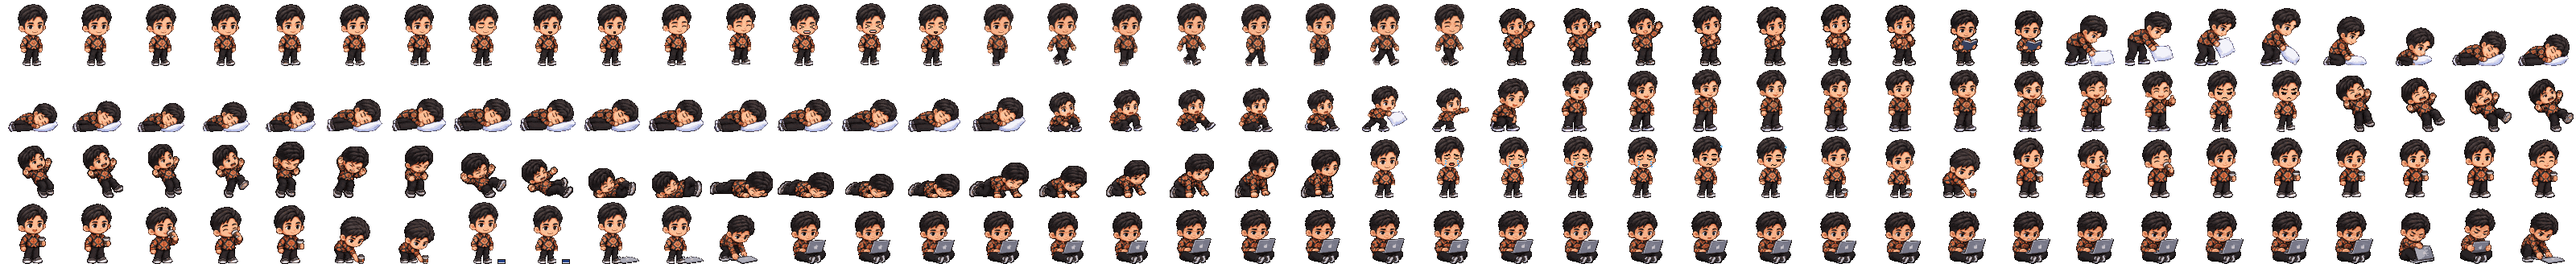
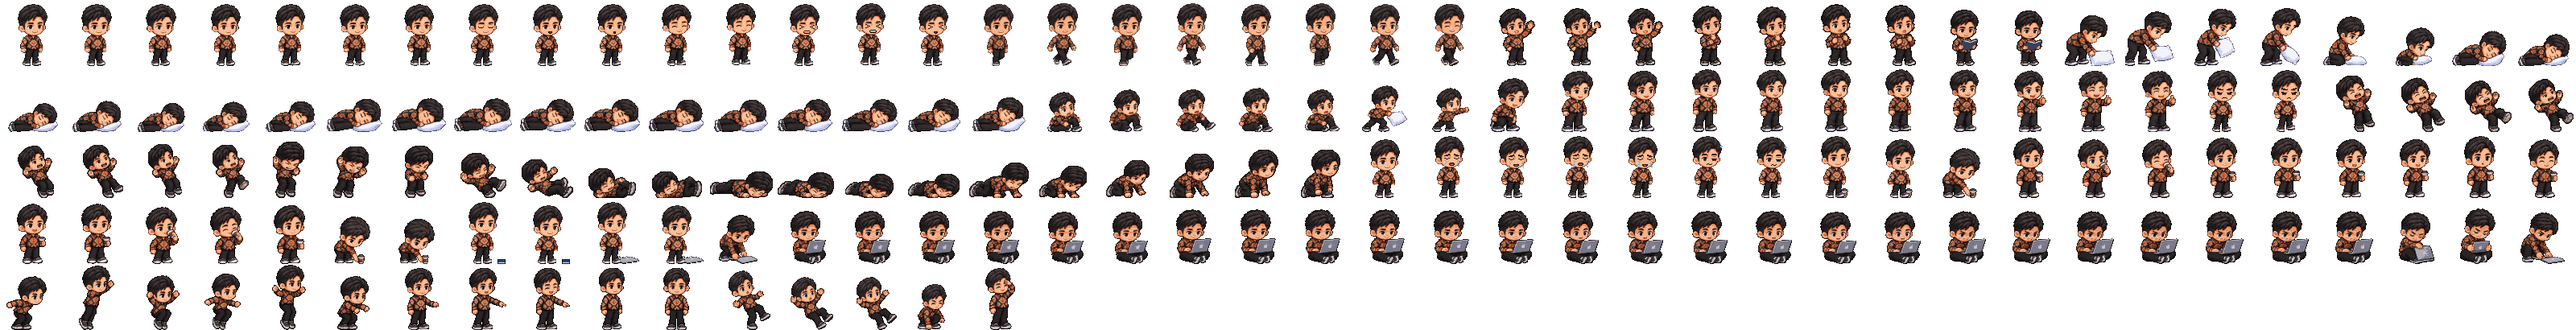
Tambah animasi lompat, menunjuk, berbalik, dan jatuh kaget pada companion
- Lompat ke jalan hero (6 frame) dan jatuh kaget saat jalan hilang (5 frame)
- Menunjuk saat bagian Quests dan Skill Tree terlihat
- Berbalik arah dengan mulus saat arah jalan berganti
- Frame baru dibuat dengan GPT, diproses lewat pipeline sprite
- Cache-busting companion ke v=6

diff --git a/assets/js/companion.js b/assets/js/companion.js
@@ -5,9 +5,13 @@
    Perilaku:
    - aktivitas acak: jalan (menoleh sesuai arah), diam & bernapas, berpikir, bingung, peregangan,
      minum kopi, membaca, duduk, ngoding, melambai
+   - section Quests / Skill Tree terlihat -> menunjuk ke arah konten sambil berkomentar
    - klik  -> tertawa kegelian (klik terus -> marah)
    - seret -> diangkat: marah & meronta; lepas -> jatuh, pusing, lalu menangis
-   - tidak ada aktivitas 35 detik -> tidur berbaring; ada aktivitas -> bangun kaget & bingung */
+   - tidak ada aktivitas 35 detik -> tidur berbaring; ada aktivitas -> bangun kaget & bingung
+   - ganti arah jalan -> berbalik (3/4 -> depan -> 3/4 dicerminkan), tidak langsung dicerminkan
+   - jalan hero muncul lagi saat scroll -> ancang-ancang & melompat ke jalan;
+     jalan hilang -> terpeleset kaget, melayang, mendarat jongkok, lalu lega */
 (() => {
   const root = document.getElementById('buddy');
   const DATA = window.ARSYA_FRAMES;
@@ -81,6 +85,7 @@
     surprised: { anim: 'surprised', fps: 1, dur: [700, 800], mark: '❗' },
     think:     { anim: 'think', fps: 1.2, dur: [4000, 6000], mark: '💡' },
     confused:  { anim: 'confused', fps: 3, dur: [2500, 3200], mark: '❓' },
+    point:     { anim: 'point', fps: 2.5, dur: [3000, 3400], intro: ['point_in'], introFps: 4, outro: true },
     coffee:    { anim: 'coffee', fps: 4, dur: [6000, 9000], intro: ['coffee_in'], introFps: 4, outro: ['coffee_out'],
                  cue: { frame: 6, say: 'coffeeTalk', ms: 3000 } },   // frame 6 = mulai mengobrol
     read:      { anim: 'read', fps: 0.8, dur: [6000, 9000], intro: ['read_in'], introFps: 3, outro: true },
@@ -115,6 +120,8 @@
   let S = 2, W = FW * S, H = FH * S;
   let x = 24, y = 0, floorY = 0;
   let onRoad, dropping = false;                                       // lantai: jalan di gambar hero atau dasar layar
+  let crouchUntil = 0, landUntil = 0, launchAt = 0, landAt = 0;      // ancang-ancang / mendarat (frame lompat)
+  let slipping = false;                                               // jatuh kaget dari jalan (frame slip)
 
   /* lantai = jalan pada latar hero (window.ARSYA_FLOOR dari main.js, posisi telapak kaki di viewport)
      selama jalan itu terlihat; selain itu dasar layar */
@@ -143,6 +150,7 @@
 
   /* ---------- pemutar animasi ---------- */
   let list = ANIMS.idle, animFps = 1, frameI = 0, frameT = 0, loop = true, override = null, overrideI = 0;
+  let pose = null;                                 // frame lompat / berbalik yang menimpa animasi state
   const seq = (names, reverse) => {
     const l = [].concat(...names.map((n) => ANIMS[n]));
     return reverse ? l.reverse() : l;
@@ -153,7 +161,9 @@
   }
   function render() {
     let f;
-    if (override) {
+    if (pose != null) {
+      f = pose;
+    } else if (override) {
       const o = ANIMS[override];
       f = o[overrideI % o.length];
     } else {
@@ -161,6 +171,46 @@
     }
     sprite.style.backgroundPosition = `${-(f % COLS) * W}px ${-Math.floor(f / COLS) * H}px`;
   }
+  function setPose(f) {
+    if (f === pose) return;
+    pose = f; render();
+  }
+  /* frame lompat (jump: 1 ancang-ancang, 2 menolak, 3 naik, 4 puncak, 5 turun, 6 mendarat) dari kecepatan vertikal */
+  const JUMP = ANIMS.jump, SLIP = ANIMS.slip;
+  /* jatuh kaget: slip = [kehilangan pijakan, melayang, melayang, mendarat jongkok, lega] */
+  function airPose(now) {
+    const t = now - launchAt;
+    if (slipping) return t < 150 ? SLIP[0] : SLIP[1 + (Math.floor(t / 110) % 2)];
+    return t < 110 ? JUMP[1] : vy < -300 ? JUMP[2] : vy < 250 ? JUMP[3] : JUMP[4];
+  }
+  function stopJump() {
+    dropping = slipping = false; crouchUntil = landUntil = 0; vy = 0;
+    setPose(null);
+  }
+
+  /* berbalik arah: turn = [3/4 menghadap kanan, depan]; sisi kiri memakai frame 3/4 yang dicerminkan */
+  const TURN = ANIMS.turn, TURN_STEP = 85;
+  let faceLeft = false, turnSteps = null, turnAt = 0;
+  const showFace = (left) => root.classList.toggle('face-left', left);
+  function face(left, animate = true) {
+    if (left === faceLeft && (animate || !turnSteps)) return;
+    faceLeft = left;
+    if (!animate || turnSteps || pose != null || dropping || crouchUntil || landUntil || root.hidden) {
+      if (turnSteps) { turnSteps = null; setPose(null); }
+      showFace(left);
+      return;
+    }
+    turnSteps = [[TURN[0], !left], [TURN[1], false], [TURN[0], left]];
+    turnAt = performance.now();
+    stepTurn(turnAt);
+  }
+  function stepTurn(now) {
+    const i = Math.floor((now - turnAt) / TURN_STEP);
+    if (i >= turnSteps.length) { turnSteps = null; setPose(null); showFace(faceLeft); return; }
+    showFace(turnSteps[i][1]);
+    setPose(turnSteps[i][0]);
+  }
+
   /* tampilkan frame lain sebentar (kedip / bicara) tanpa mengganggu animasi utama */
   let overrideTimer = null;
   function flash(name, ms) {
@@ -196,7 +246,7 @@
     state = s;
     const dur = ms != null ? ms : (cfg.dur ? rand(cfg.dur[0], cfg.dur[1]) : 0);
     root.classList.remove('sleeping');
-    if (s !== 'walk') root.classList.remove('face-left');
+    if (s !== 'walk') face(false, !['drag', 'fall', 'land', 'hurt', 'getup', 'cry', 'sleep'].includes(s));
     override = null;
     setMark(null);
     stateEnd = 0;
@@ -301,29 +351,45 @@
     const surf = surface();
     if (state === 'drag' || state === 'fall') {
       floorY = surf.y;
+    } else if (crouchUntil) {                         // ancang-ancang, lalu menolak ke jalan
+      if (now >= crouchUntil) {
+        crouchUntil = 0; dropping = true; launchAt = now;
+        floorY = surf.y;
+        vy = floorY < y ? -Math.sqrt(2 * 2600 * (y - floorY + 40)) : 0;   // puncak 40px di atas jalan
+      }
     } else if (dropping) {
       floorY = surf.y;
       vy += 2600 * dt;
       y += vy * dt;
-      if (vy > 0 && y >= floorY) {
-        y = floorY; vy = 0; dropping = false;
-        root.classList.remove('land'); void root.offsetWidth; root.classList.add('land');
+      setPose(airPose(now));
+      if (vy > 0 && y >= floorY) {                    // mendarat jongkok sebentar (jatuh kaget: lalu lega)
+        y = floorY; vy = 0; dropping = false; landAt = now;
+        landUntil = now + (slipping ? 1000 : 180);
+        setPose(slipping ? SLIP[3] : JUMP[5]);
       }
       place();
     } else if (onRoad !== undefined && surf.road !== onRoad && !root.hidden) {
-      dropping = true;
       floorY = surf.y;
-      vy = floorY < y ? -Math.sqrt(2 * 2600 * (y - floorY + 24)) : 0;   // naik: lompat ke jalan; turun: jatuh
+      face(faceLeft, false);                          // batalkan berbalik yang sedang berjalan
+      if (floorY < y) {                               // naik: ancang-ancang dulu
+        crouchUntil = now + 150; landUntil = 0; slipping = false;
+        setPose(JUMP[0]);
+      } else {                                        // turun: kehilangan pijakan, jatuh
+        dropping = slipping = true; vy = 0; launchAt = now; landUntil = 0;
+      }
     } else if (y !== surf.y) {
       floorY = y = surf.y;
       place();
     }
     onRoad = surf.road;
+    if (landUntil && now >= landUntil) { landUntil = 0; slipping = false; setPose(null); }
+    else if (landUntil && slipping && now - landAt > 280) setPose(SLIP[4]);
+    if (turnSteps) stepTurn(now);
 
-    if (state === 'walk') {
+    if (state === 'walk' && !crouchUntil && !landUntil) {
       const dir = Math.sign(targetX - x);
-      x += dir * WALK_SPEED * S * dt;                // sama dengan panjang langkah: kaki tidak meluncur
-      root.classList.toggle('face-left', dir < 0);   // frame jalan menghadap kanan, dicerminkan ke kiri
+      if (dir) face(dir < 0);                        // frame jalan menghadap kanan, dicerminkan ke kiri
+      if (!turnSteps) x += dir * WALK_SPEED * S * dt;   // sama dengan panjang langkah: kaki tidak meluncur
       if (dir === 0 || (dir > 0 && x >= targetX) || (dir < 0 && x <= targetX)) {
         x = targetX; setState('idle', rand(1200, 3000));
       }
@@ -373,6 +439,7 @@
     if (!press.moved && Math.hypot(e.clientX - press.sx, e.clientY - press.sy) > 6) {
       press.moved = true;
       root.classList.add('dragging');
+      stopJump();
       setState('drag'); say('lift', 2200);
     }
     if (press.moved) {
@@ -430,7 +497,9 @@
         const id = en.target.id;
         if (!en.isIntersecting || seen.has(id) || !['idle', 'walk', 'think'].includes(state)) return;
         seen.add(id);
-        setState(id === 'skills' ? 'coding' : id === 'quests' ? 'think' : 'wave');
+        setState(id === 'party' ? 'wave' : 'point');
+        // frame menunjuk menghadap kanan: di separuh kanan layar dicerminkan agar menunjuk ke konten
+        if (id !== 'party') face(x + W / 2 > window.innerWidth / 2);
         say(SECTION_LINE[id]);
       });
     }, { threshold: 0.35 });

diff --git a/assets/js/companion-frames.js b/assets/js/companion-frames.js
@@ -1,2 +1,2 @@
 /* DIBUAT OTOMATIS oleh tools/sprite/build_sheet.py - jangan diedit manual */
-window.ARSYA_FRAMES = {"frameWidth": 80, "frameHeight": 82, "cols": 40, "rows": 4, "count": 160, "anims": {"idle": [0, 1, 2, 3, 4, 5, 6], "blink": [7], "talk": [0, 8, 9], "happy": [10, 11], "tickle": [12, 13, 14, 13], "walk": [15, 16, 17, 18, 19, 20, 21, 22], "wave": [23, 24, 23, 25], "think": [26, 27], "surprised": [28, 29], "read": [30, 31], "lie_down": [32, 33, 34, 35, 36, 37, 38], "sleep": [39, 40, 41, 42, 43, 44, 45, 46, 47, 48, 49, 50, 51, 52, 53, 54, 55], "wake_up": [56, 57, 58, 59, 60, 61, 62, 63, 64, 65, 66, 67, 68, 69, 70, 71, 72, 73], "angry": [74, 75], "lift": [76, 77, 78, 79, 80, 81, 82, 83], "fall": [84, 85, 86, 87, 88], "land": [89, 90], "hurt": [91, 92, 93, 94], "getup": [95, 96, 97, 98, 99, 100, 101, 0], "cry": [102, 103, 104, 105], "confused": [106, 107], "squat": [101], "coffee_in": [108, 109, 110, 111], "coffee": [112, 113, 113, 112, 114, 114, 115, 116, 117, 116, 118, 115, 119, 119, 120, 121, 120, 115, 122, 123, 123, 122, 124, 124], "coffee_out": [125, 126, 109, 108], "read_in": [127, 128], "coding_in": [129, 130, 131], "coding": [132, 133, 132, 134, 132, 135, 136, 137, 132, 133, 132, 134, 132, 135, 136, 137, 132, 133, 132, 134, 132, 135, 136, 137, 138, 139, 138, 140, 138, 141, 142, 143, 138, 139, 138, 140, 138, 141, 142, 143, 132, 133, 132, 134, 132, 135, 136, 137, 132, 133, 132, 134, 132, 135, 136, 137, 144, 145, 144, 146, 144, 147, 148, 149, 144, 145, 144, 146, 144, 147, 148, 149, 138, 139, 138, 140, 138, 141, 142, 143, 138, 139, 138, 140, 138, 141, 142, 143], "coding_mad": [150, 151, 152, 153, 150, 154, 155, 156], "coding_out": [157, 158, 159, 130, 129]}};
+window.ARSYA_FRAMES = {"frameWidth": 80, "frameHeight": 82, "cols": 40, "rows": 5, "count": 176, "anims": {"idle": [0, 1, 2, 3, 4, 5, 6], "blink": [7], "talk": [0, 8, 9], "happy": [10, 11], "tickle": [12, 13, 14, 13], "walk": [15, 16, 17, 18, 19, 20, 21, 22], "wave": [23, 24, 23, 25], "think": [26, 27], "surprised": [28, 29], "read": [30, 31], "lie_down": [32, 33, 34, 35, 36, 37, 38], "sleep": [39, 40, 41, 42, 43, 44, 45, 46, 47, 48, 49, 50, 51, 52, 53, 54, 55], "wake_up": [56, 57, 58, 59, 60, 61, 62, 63, 64, 65, 66, 67, 68, 69, 70, 71, 72, 73], "angry": [74, 75], "lift": [76, 77, 78, 79, 80, 81, 82, 83], "fall": [84, 85, 86, 87, 88], "land": [89, 90], "hurt": [91, 92, 93, 94], "getup": [95, 96, 97, 98, 99, 100, 101, 0], "cry": [102, 103, 104, 105], "confused": [106, 107], "squat": [101], "coffee_in": [108, 109, 110, 111], "coffee": [112, 113, 113, 112, 114, 114, 115, 116, 117, 116, 118, 115, 119, 119, 120, 121, 120, 115, 122, 123, 123, 122, 124, 124], "coffee_out": [125, 126, 109, 108], "read_in": [127, 128], "coding_in": [129, 130, 131], "coding": [132, 133, 132, 134, 132, 135, 136, 137, 132, 133, 132, 134, 132, 135, 136, 137, 132, 133, 132, 134, 132, 135, 136, 137, 138, 139, 138, 140, 138, 141, 142, 143, 138, 139, 138, 140, 138, 141, 142, 143, 132, 133, 132, 134, 132, 135, 136, 137, 132, 133, 132, 134, 132, 135, 136, 137, 144, 145, 144, 146, 144, 147, 148, 149, 144, 145, 144, 146, 144, 147, 148, 149, 138, 139, 138, 140, 138, 141, 142, 143, 138, 139, 138, 140, 138, 141, 142, 143], "coding_mad": [150, 151, 152, 153, 150, 154, 155, 156], "coding_out": [157, 158, 159, 130, 129], "jump": [160, 161, 162, 163, 164, 165], "point_in": [166], "point": [167, 168], "turn": [169, 170], "slip": [171, 172, 173, 174, 175]}};

diff --git a/assets/css/companion.css b/assets/css/companion.css
@@ -1,7 +1,7 @@
 /* pixel companion (dipindah dari style.css; balon memakai gaya .dialog-box) */
 .buddy{--bs:2;--bc:1;--br:1;--fw:80;--fh:82;position:fixed;left:0;top:0;z-index:950;width:calc(var(--fw)*1px*var(--bs));height:calc(var(--fh)*1px*var(--bs));will-change:transform;pointer-events:none}
 .buddy[hidden]{display:none}
-.buddy-sprite{position:absolute;inset:0;pointer-events:auto;padding:0;border:0;background:url(../img/companion/arsya-sheet.png) 0 0/calc(var(--fw)*1px*var(--bs)*var(--bc)) calc(var(--fh)*1px*var(--bs)*var(--br)) no-repeat;image-rendering:pixelated;cursor:grab;touch-action:none;user-select:none;-webkit-user-select:none;-webkit-tap-highlight-color:transparent;filter:drop-shadow(0 5px 6px rgba(15,21,51,.28));transform-origin:50% 100%}
+.buddy-sprite{position:absolute;inset:0;pointer-events:auto;padding:0;border:0;background:url(../img/companion/arsya-sheet.png?v=6) 0 0/calc(var(--fw)*1px*var(--bs)*var(--bc)) calc(var(--fh)*1px*var(--bs)*var(--br)) no-repeat;image-rendering:pixelated;cursor:grab;touch-action:none;user-select:none;-webkit-user-select:none;-webkit-tap-highlight-color:transparent;filter:drop-shadow(0 5px 6px rgba(15,21,51,.28));transform-origin:50% 100%}
 .buddy.face-left .buddy-sprite{scale:-1 1}
 .buddy.dragging .buddy-sprite{cursor:grabbing;filter:drop-shadow(0 18px 14px rgba(15,21,51,.25))}
 .buddy-sprite:focus-visible{outline:3px solid var(--teal);outline-offset:2px}

diff --git a/index.html b/index.html
@@ -26,7 +26,7 @@ setTimeout(function(){if(!window.__appReady)d.classList.remove('js')},3000);})()
 <link rel="stylesheet" href="assets/css/base.css?v=5">
 <link rel="stylesheet" href="assets/css/components.css?v=5">
 <link rel="stylesheet" href="assets/css/sections.css?v=5">
-<link rel="stylesheet" href="assets/css/companion.css?v=5">
+<link rel="stylesheet" href="assets/css/companion.css?v=6">
 <script type="application/ld+json">
 {"@context":"https://schema.org","@type":"Person","name":"Muhammad Imam Arsyawalfa","jobTitle":"Software Engineer","email":"mailto:arsyawalfa@gmail.com","address":{"@type":"PostalAddress","addressLocality":"Surabaya","addressCountry":"ID"},"sameAs":["https://github.com/Arsyawalfa98","https://id.linkedin.com/in/muhammad-imam-arsyawalfa-4062713a5","https://instagram.com/arsya_0"]}
 </script>
@@ -369,8 +369,8 @@ setTimeout(function(){if(!window.__appReady)d.classList.remove('js')},3000);})()
 </div>
 <button type="button" class="buddy-show" id="buddyShow" aria-label="Show character" hidden>🙂</button>
 
-<script src="assets/js/companion-frames.js" defer></script>
-<script src="assets/js/companion.js?v=5" defer></script>
+<script src="assets/js/companion-frames.js?v=6" defer></script>
+<script src="assets/js/companion.js?v=6" defer></script>
 <script type="module" src="assets/js/main.js?v=4"></script>
 </body>
 </html>

diff --git a/tools/sprite/extract.py b/tools/sprite/extract.py
@@ -20,6 +20,10 @@ SHEETS = {
     'lap':  os.path.join(SRC, 'action-pick-and-use-laptop.png'),
     'cof':  os.path.join(SRC, 'pick-up-coffe.png'),
     'slp':  os.path.join(SRC, 'new-sleep.png'),
+    'jump': os.path.join(SRC, 'jump.png'),
+    'point': os.path.join(SRC, 'point.png'),
+    'turn': os.path.join(SRC, 'turn.png'),
+    'slip': os.path.join(SRC, 'drop.png'),
 }
 
 def run(*a):
@@ -226,6 +230,31 @@ for row, (y0, y1, cols) in SLP_ROWS.items():
         name = 'slp_%s_%d' % (row, i + 1)
         FRAMES.append((name, 'slp', (c[0], y0, c[1], y1), SLP_STAND_H[row], 'box' if name[4:] in SLP_LYING else 'head'))
 
+# lompat: jump.png (1 baris, 6 frame, latar transparan, dibuat dengan GPT):
+#   1 ancang-ancang jongkok, 2 menolak, 3 naik (lutut ditarik), 4 puncak, 5 turun, 6 mendarat jongkok.
+# Semua frame digambar dengan skala yang sama: satu faktor dari lebar kepala jump_1 (= idle).
+for i, b in enumerate([(28, 440, 282, 774), (310, 330, 532, 728), (556, 256, 766, 596),
+                       (776, 228, 1004, 578), (1034, 306, 1248, 710), (1296, 436, 1500, 774)]):
+    FRAMES.append(('jump_%d' % (i + 1), 'jump', b, 390, 'head'))
+# menunjuk: point.png (1 baris, 3 frame, latar transparan, dibuat dengan GPT):
+#   1 mengangkat tangan, 2 menunjuk sambil bicara, 3 menunjuk sambil tersenyum (2-3 dipakai bergantian)
+for i, b in enumerate([(114, 198, 464, 830), (590, 202, 972, 830), (1092, 200, 1466, 830)]):
+    FRAMES.append(('point_%d' % (i + 1), 'point', b, 618, 'head'))
+# berbalik: turn.png (1 baris, 2 frame, latar transparan, dibuat dengan GPT): 1 posisi 3/4, 2 menghadap depan
+for i, b in enumerate([(352, 148, 672, 894), (852, 148, 1180, 892)]):
+    FRAMES.append(('turn_%d' % (i + 1), 'turn', b, 734, 'head'))
+# jatuh kaget dari jalan: drop.png (1 baris, 5 frame, latar transparan, dibuat dengan GPT; nama frame
+#   slip_* agar tidak bentrok dengan drop_* dari lembar diangkat & jatuh):
+#   1 kehilangan pijakan, 2-3 melayang jatuh (bergantian), 4 mendarat jongkok, 5 berdiri lega.
+#   Frame 2 & 3 berdempetan di aset -> batas dipotong manual di x=660.
+for i, b in enumerate([(18, 320, 330, 758), (342, 310, 660, 712), (660, 318, 960, 712),
+                       (984, 426, 1206, 768), (1284, 304, 1510, 762)]):
+    FRAMES.append(('slip_%d' % (i + 1), 'slip', b, 452, 'head'))
+# lembar buatan GPT: satu faktor skala per lembar dari lebar kepala frame pertama (= idle) x koreksi
+#   jump x0.96: badan di aset sedikit lebih jangkung dari idle; pose meregang (2, 5) muat di frame
+#   point x0.9, turn x0.84, slip x0.875: tinggi berdiri disamakan dengan idle (77 px)
+GPT_SHEET_FIX = {'jump': 0.96, 'point': 0.9, 'turn': 0.84, 'slip': 0.875}
+
 # pose yang kepalanya tidak bisa diukur otomatis (berbaring): koreksi skala manual,
 # disamakan dengan pose lain di baris yang sama pada lembar interaksi
 SCALE_FIX = {}
@@ -385,6 +414,7 @@ def build(names=None):
     # 1) potong + bersihkan + perkecil tiap frame
     small = {}
     walk_fix = None
+    gpt_fix = {}
     for name, sheet, box, stand_h, anchor in FRAMES:
         if names and name not in names:
             continue
@@ -416,6 +446,12 @@ def build(names=None):
             scale *= walk_fix
             resize(scale)
             print('  %-14s kepala -> %d (skala x%.3f)' % (name, head_width(sm), walk_fix))
+        elif sheet in GPT_SHEET_FIX:
+            if sheet not in gpt_fix:
+                gpt_fix[sheet] = ref_head / head_width(sm) * GPT_SHEET_FIX[sheet]
+            scale *= gpt_fix[sheet]
+            resize(scale)
+            print('  %-14s kepala -> %d, tinggi %d (skala x%.3f)' % (name, head_width(sm), opaque_h(sm), gpt_fix[sheet]))
         elif sheet == 'fall':
             scale *= fall_scale(name)                  # tinggi berdiri (FALL_STAND_H) x koreksi kelompok
             resize(scale)
@@ -479,7 +515,7 @@ def build(names=None):
     for name, (sm, anchor) in small.items():
         q = os.path.join(TMP, name + '_q.png')
         pal_for = {'fall': pal_idle, 'lap': pal_lap, 'walk': pal_idle, 'cof': pal_cof,
-                   'slp': pal_slp}.get(sheet_of[name], pal)
+                   'slp': pal_slp, 'jump': pal_idle, 'point': pal_idle, 'turn': pal_idle, 'slip': pal_idle}.get(sheet_of[name], pal)
         run('convert', sm, '-alpha', 'off', '+dither', '-remap', pal_for, q)
         w, h, d = load_rgba(q)
         _, _, a = load_rgba(sm)                   # transparansi diambil dari sebelum remap

diff --git a/tools/sprite/build_sheet.py b/tools/sprite/build_sheet.py
@@ -408,6 +408,20 @@ def build():
         add('coding_out', F[n])
     add('coding_out', with_floor_laptop(squat(base), floor_laptop))
     add('coding_out', with_floor_laptop(base, floor_laptop))
+    # lompat (jump.png): 1 ancang-ancang, 2 menolak, 3 naik, 4 puncak, 5 turun, 6 mendarat.
+    # JS memilih frame sesuai fase lompatan / kecepatan vertikal (lihat airPose di companion.js)
+    for i in range(1, 7):
+        add('jump', F['jump_%d' % i])
+    # menunjuk (point.png): mengangkat tangan -> menunjuk sambil bicara / tersenyum (bergantian)
+    add('point_in', F['point_1'])
+    for n in ('point_2', 'point_3'):
+        add('point', F[n])
+    # berbalik (turn.png): 1 posisi 3/4 menghadap kanan, 2 menghadap depan (JS mencerminkan frame 1 untuk sisi kiri)
+    for i in (1, 2):
+        add('turn', F['turn_%d' % i])
+    # jatuh kaget dari jalan (drop.png): 1 kehilangan pijakan, 2-3 melayang (bergantian), 4 mendarat jongkok, 5 lega
+    for i in range(1, 6):
+        add('slip', F['slip_%d' % i])
     return anims
 
 SHEET_COLS = 40          # sheet disusun grid (lebar 40 x 80 = 3200px) - aman untuk batas ukuran gambar/browser

diff --git a/docs/REDESIGN.md b/docs/REDESIGN.md
@@ -339,7 +339,7 @@ portofolio-arsya/
 ```
 
 - Memakai **ES modules** (`<script type="module">`); di lokal dijalankan lewat server (`python3 -m http.server 8000`).
-- **Cache-busting:** setiap rilis, naikkan `?v=N` di `index.html` (CSS, `main.js`, `companion.js`) **dan** di semua `import` pada `main.js`. Tanpa ini, browser bisa mencampur modul lama dan baru sehingga halaman kosong.
+- **Cache-busting:** setiap rilis, naikkan `?v=N` di `index.html` (CSS, `main.js`, `companion.js`, `companion-frames.js`, dan `arsya-sheet.png` di `companion.css` bila sprite berubah) **dan** di semua `import` pada `main.js`. Tanpa ini, browser bisa mencampur modul lama dan baru sehingga halaman kosong.
 - **Tanpa library.** Ikon brand (GitHub, LinkedIn, dll.) memakai SVG resmi; ikon lain dari Canva.
 
 ### 6.2 Contoh skema data
@@ -471,22 +471,25 @@ Karakter chibi Arsya hidup di bagian bawah layar: berjalan kiri/kanan, ngoding d
 
 | File | Isi |
 |---|---|
-| `assets/img/companion/arsya-sheet.png` | sprite sheet grid 40 kolom, frame 80×82, 160 frame unik (±144 KB) |
+| `assets/img/companion/arsya-sheet.png` | sprite sheet grid 40 kolom, frame 80×82, 176 frame unik (±162 KB) |
 | `assets/js/companion-frames.js` | indeks frame per animasi (**auto-generated**, jangan diedit manual) |
 | `assets/js/companion.js` | mesin status (idle, walk, coding, coffee, sleep, wake, drag, fall, cry, …), balon dialog EN/ID |
-| `tools/sprite/source/*.png` | 7 lembar aset karakter asli (tidak ikut ke website) |
+| `tools/sprite/source/*.png` | 11 lembar aset karakter asli (tidak ikut ke website); `jump.png`, `point.png`, `turn.png`, `drop.png` dibuat dengan GPT |
 | `tools/sprite/extract.py`, `build_sheet.py` | pipeline: potong frame → samakan ukuran & palet ke idle → sheet |
 
 **Membangun ulang sprite:** `python3 tools/sprite/extract.py && python3 tools/sprite/build_sheet.py --preview tools/sprite/preview.png`
 
+**Aset karakter buatan GPT:** daftarkan lembarnya di `SHEETS` dan `FRAMES` (`extract.py`) lalu atur faktor skala di `GPT_SHEET_FIX` sampai tinggi berdiri = idle (77 px).
+
 **Aturan aset karakter baru:** ukuran badan dan warna setiap frame wajib senada dengan idle (tinggi berdiri ±77 px, palet dikunci ke palet idle). Uji cepat di browser dengan `?buddy=<state>`, misalnya `?buddy=sleep`, `?buddy=wake`, `?buddy=coding`.
 
 **Integrasi dengan redesign**
-- **Pijakan di jalan hero:** selama trotoar pada latar hero terlihat, companion berdiri dan berjalan di atasnya (`window.ARSYA_FLOOR` di `main.js` menghitung posisi trotoar dari ukuran `background-size: cover`; baris piksel trotoar di gambar 1776×896: siang **818**, malam **802**). Saat trotoar keluar layar, companion jatuh ke dasar layar; saat kembali, ia melompat naik ke jalan. Hero diberi ruang kosong bawah (`--stage`: 290px desktop, 250px mobile) agar karakter tidak menutupi jendela.
+- **Pijakan di jalan hero:** selama trotoar pada latar hero terlihat, companion berdiri dan berjalan di atasnya (`window.ARSYA_FLOOR` di `main.js` menghitung posisi trotoar dari ukuran `background-size: cover`; baris piksel trotoar di gambar 1776×896: siang **818**, malam **802**). Saat trotoar keluar layar, companion terpeleset kaget lalu jatuh ke dasar layar (animasi `slip`, 5 frame: kehilangan pijakan, melayang ×2, mendarat jongkok, lega); saat kembali, ia melompat naik ke jalan (animasi `jump`, 6 frame: ancang-ancang, menolak, naik, puncak, turun, mendarat). Frame dipilih dari fase dan kecepatan vertikal (`airPose` di `companion.js`).
+- **Berbalik arah:** saat arah jalan berganti, companion berbalik lewat animasi `turn` (3/4 → depan → 3/4 dicerminkan, ±¼ detik) alih-alih langsung dicerminkan. Hero diberi ruang kosong bawah (`--stage`: 290px desktop, 250px mobile) agar karakter tidak menutupi jendela.
 - Jika latar hero diganti, perbarui angka baris trotoar di `HERO_IMG` (`assets/js/main.js`).
 - Tanah footer (`ground-{day,night}.webp`) dipotong dari latar hero, warna ikut tema.
 - Balon dialog memakai gaya `.dialog-box` yang sama dengan Chat Log.
-- Pemicu scroll: masuk **Quests** → berpikir ("My projects are right here!"), **Skill Tree** → ngoding, **Party** → melambai, form terkirim → senang.
+- Pemicu scroll: masuk **Quests** → menunjuk ("My projects are right here!"), **Skill Tree** → menunjuk ("This is my tech stack"; dicerminkan bila companion di separuh kanan layar), **Party** → melambai, form terkirim → senang.
 - CSS companion dipindah ke `companion.css`; teks balon pindah ke `i18n.js`.
 
 ---
